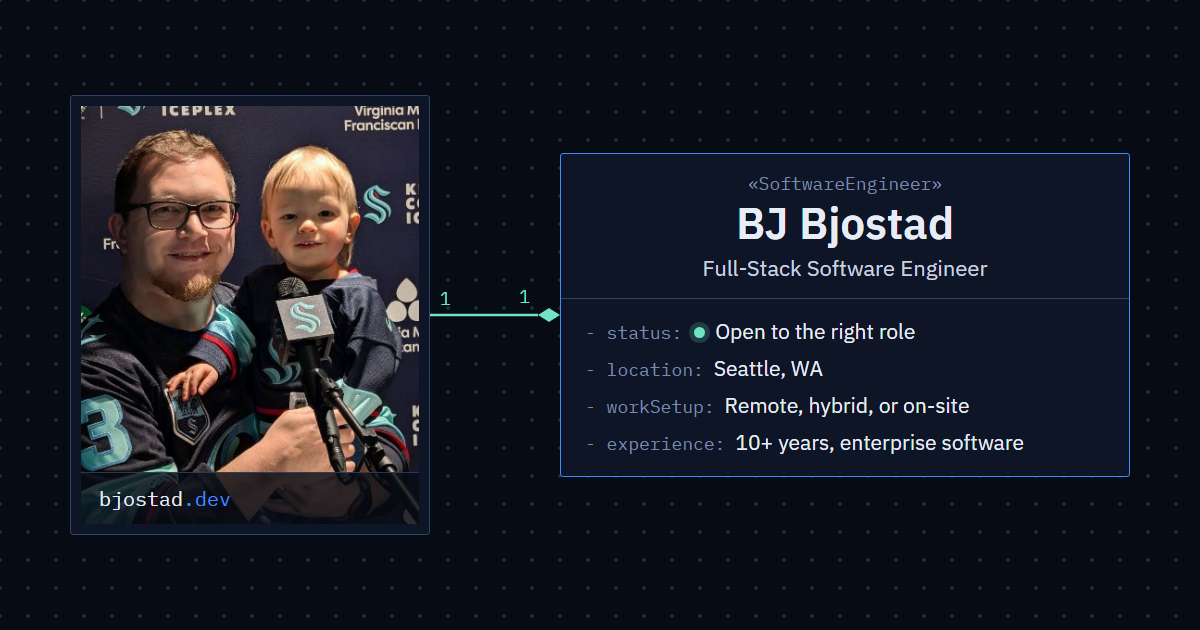
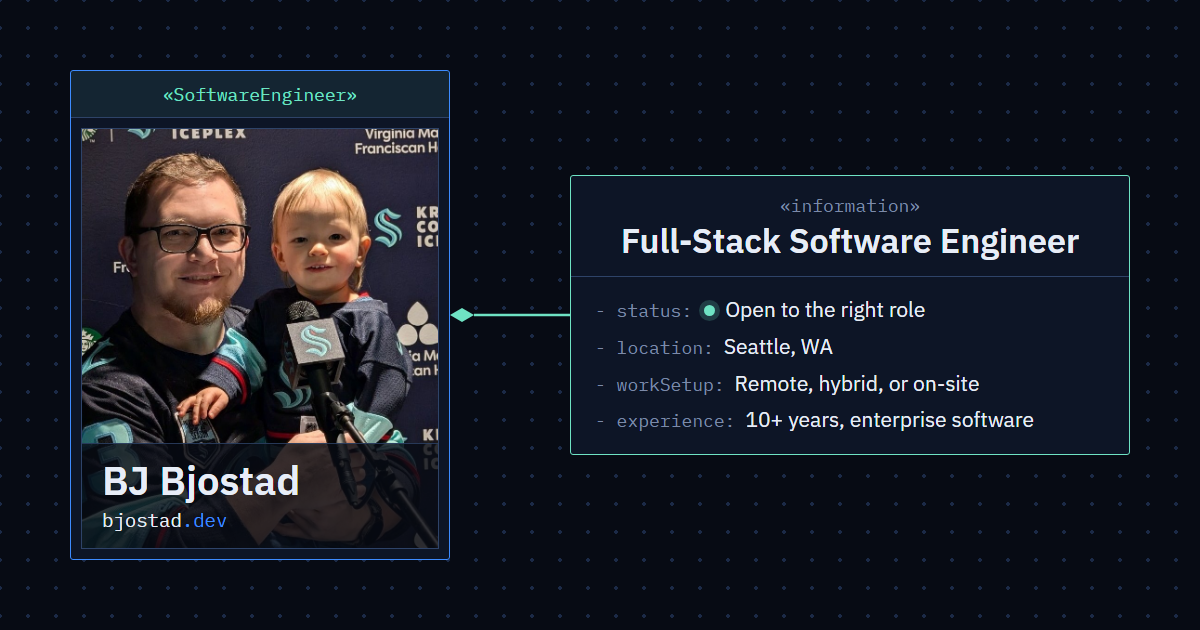
Mirror the site's you -> contact composition in the link preview
The photo is now the «SoftwareEngineer» class (you), composed of an
«information» box with the role and availability, with the diamond on
your side as on the site. Drops the multiplicity labels, which the site
no longer uses.

Changed region(s): [[0.0308, 0.0905, 0.4008, 0.8746], [0.4933, 0.2714, 0.8942, 0.7238], [0.4317, 0.4825, 0.4933, 0.5127]]

diff --git a/index.html b/index.html
@@ -17,7 +17,7 @@
     <meta property="og:image" content="https://bjostad.dev/og.png" />
     <meta property="og:image:width" content="1200" />
     <meta property="og:image:height" content="630" />
-    <meta property="og:image:alt" content="UML class diagram: a photo of BJ Bjostad composed into a «SoftwareEngineer» class, Full-Stack Software Engineer: open to the right role, Seattle, WA, remote, hybrid, or on-site, 10+ years in enterprise software" />
+    <meta property="og:image:alt" content="UML class diagram: BJ Bjostad, a «SoftwareEngineer» class shown as his photo, composed of an «information» box for Full-Stack Software Engineer: open to the right role, Seattle, WA, remote, hybrid, or on-site, 10+ years in enterprise software" />
     <meta name="twitter:card" content="summary_large_image" />
   </head>
   <body>
